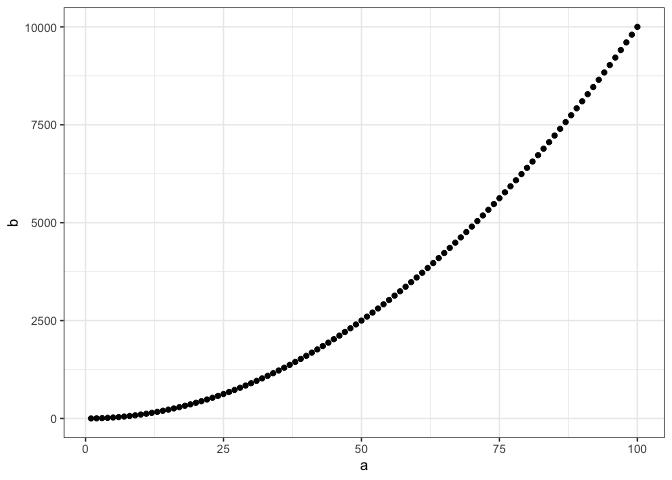
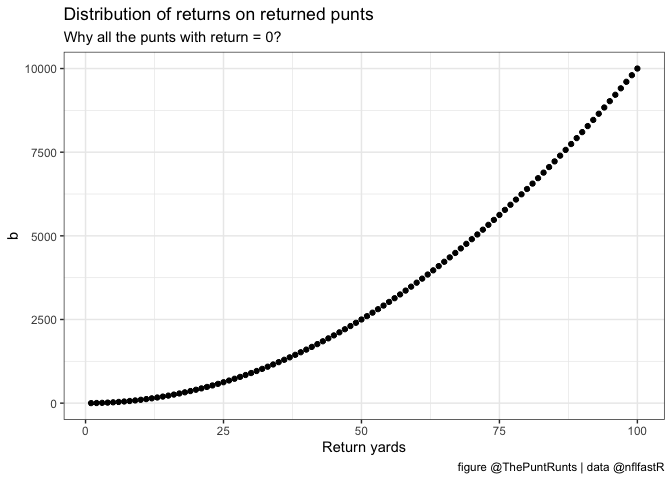
add mystery doc

diff --git a/mystery_returns.md b/mystery_returns.md
@@ -1,0 +1,47 @@
+---
+title: "Mystery Returns"
+layout: default
+output:
+  md_document:
+    variant: gfm
+    preserve_yaml: TRUE
+knit: (function(inputFile, encoding) {
+  rmarkdown::render(inputFile, encoding = encoding, output_dir = "..") })
+---
+
+# An `nflfasR` mystery
+
+Here’s a quick little code chunk re: the (too?) large number of
+“returned” punts with 0 yard returns.
+
+Install:
+
+``` r
+devtools::install_github("Puntalytics/puntr")
+library(puntr)
+library(tidyverse)
+```
+
+Filter to just returned punts
+
+``` r
+punts_2019 <- import_punts(2019)
+returned_punts_2019 <- punts_2019 %>%
+  filter(punt_out_of_bounds==0 &
+           punt_downed==0 &
+           punt_fair_catch==0 &
+           touchback==0)
+```
+
+And finally, plot the distribution of returns:
+
+``` r
+ggplot(data = returned_punts_2019, mapping = aes(x = return_yards)) +
+  geom_histogram(binwidth = 1) +
+  theme_bw() +
+  labs(title = "Distribution of returns on returned punts",
+         subtitle = "Why all the punts with return = 0?",
+         x="Return yards", caption="figure @ThePuntRunts | data @nflfastR")
+```
+
+![](../assets/img/Rmarkdown/returndistributions-1.png)<!-- -->
